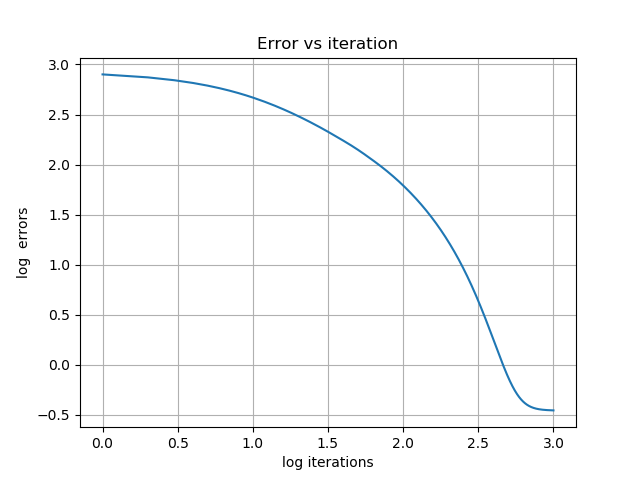
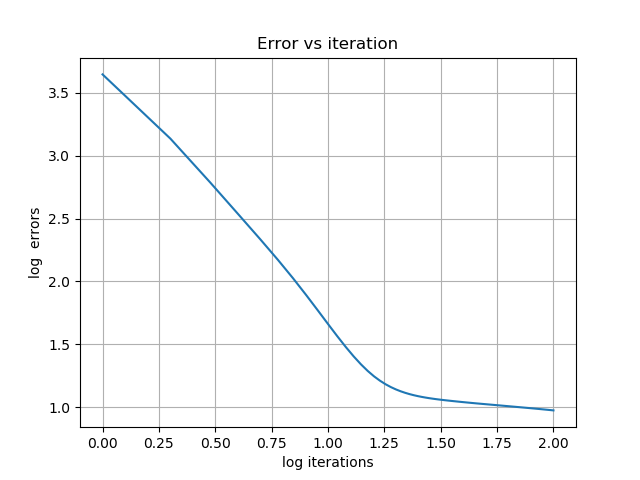
qwerty

diff --git a/torch_nn.py b/torch_nn.py
@@ -4,6 +4,9 @@ import matplotlib.pyplot as plt
 import numpy
 import csv
 import math
+import time
+
+start = time.time()
 
 def getdata():
     rates = []
@@ -26,8 +29,6 @@ def getdata():
         rates = rates / rmax
     return ntenors, nlines, numpy.array(rates)
 
-ntenors, nlines, rates =  getdata()
-
 def make_xy(ntenors,  N, rates,sample_size,n_forcast):
     n_samples =   N - sample_size - n_forcast + 1
     x_in =  numpy.empty([n_samples,sample_size,ntenors])
@@ -38,104 +39,109 @@ def make_xy(ntenors,  N, rates,sample_size,n_forcast):
         y_out[n,:] = rates[n+sample_size+n_forcast-1, :]
     return n_samples, x_in, y_out
 
-N, sample_size, n_forcast = 21, 3, 1
+def ex1():
+    ntenors, nlines, rates = getdata()
+# PARAMETERS
 # N is batch size;
 # D_in is input dimension;
 # H is hidden dimension;
 # D_out is output dimension.
-D_in, H, D_out = 7, 20, 7
-learning_rate = 5e-5
-M = 1000    # number of iterations
-chart_type = "loglog" # "logy"   "logx"  "loglog" ""
+    N, sample_size, n_forcast = 501, 24, 1       #  21, 2, 1
+    D_in, H, D_out = 7, 20, 7                   #  7, 20, 7
+    learning_rate = 1e-4                        #   5e-5
+    M =  100    # number of iterations          #  1000
+    chart_type = "loglog"                       # "logy"   "logx"  "loglog" ""
+#
+    n_samples, x_in, y_out =  make_xy(ntenors, N, rates,sample_size,n_forcast)
+    # x_in  is numpy array: [n_samples,sample_size,ntenors];
+    # y_out is numpy array: [n_samples,ntenors];
+    xn = torch.from_numpy(x_in )        # convertion from numpy to pytorch tensor
+    yn = torch.from_numpy(y_out)        # convertion from numpy to pytorch tensor
+    dtype = torch.double
+    device = torch.device("cpu")
 
-n_samples, x_in, y_out =  make_xy(ntenors, N, rates,sample_size,n_forcast)
-# x_in  is numpy array: [n_samples,sample_size,ntenors]; 
-# y_out is numpy array: [n_samples,ntenors]; 
-xn = torch.from_numpy(x_in )        # convertion from numpy to pytorch tensor 
-yn = torch.from_numpy(y_out)        # convertion from numpy to pytorch tensor
-dtype = torch.double
-device = torch.device("cpu")
+    # Randomly initialize weights
+    w1 = torch.randn(D_in, H, device=device, dtype=dtype)
+    w2 = torch.randn(H, D_out, device=device, dtype=dtype)
+        # w1 = torch.empty(D_in, H, device=device, dtype=dtype).fill_(1)
+        # w2 = torch.empty(H, D_out, device=device, dtype=dtype).fill_(1)
+    x = torch.empty(sample_size,ntenors, device=device, dtype=dtype)
+    y = torch.empty(ntenors, device=device, dtype=dtype)
+    # x is input data for n-th sample
+    # y is output data for n-th sample
 
-# Randomly initialize weights
-w1 = torch.randn(D_in, H, device=device, dtype=dtype)
-w2 = torch.randn(H, D_out, device=device, dtype=dtype)
-                    # w1 = torch.empty(D_in, H, device=device, dtype=dtype).fill_(1)
-                    # w2 = torch.empty(H, D_out, device=device, dtype=dtype).fill_(1)
-x = torch.empty(sample_size,ntenors, device=device, dtype=dtype)
-y = torch.empty(ntenors, device=device, dtype=dtype)
-# x is input data for n-th sample
-# y is output data for n-th sample
+    errors  = []
+    iteration = []  # iteration arg for plotting
+    u=1 # iteration counter
 
-errors  = []
-iteration = []  # iteration arg for plotting
-u=1 # iteration counter
-
-# iteratiion loop
-for t in range(M):
+    # iteratiion loop
+    for t in range(M):
     # Forward pass: compute predicted y
-    loss =  0       # error averaging over all samples
-    grad_w1 =  0    # gradient w1 averaging over all samples
-    grad_w2 =  0    # gradient w2 averaging over all samples
-    for k in range(n_samples):
-        x[:,:]= xn[k,:,:]       # sample input extraction from batch
-        y[:]= yn[k,:]           # sample output extraction from batch
-        h = x.mm(w1)            # hidden layer input
-        h_relu = h.clamp(min=0) # hidden layer output
-        y_pred = h_relu.mm(w2)  # output layer input
+        loss =  0       # error averaging over all samples
+        grad_w1 =  0    # gradient w1 averaging over all samples
+        grad_w2 =  0    # gradient w2 averaging over all samples
+        for k in range(n_samples):
+            x[:,:]= xn[k,:,:]       # sample input extraction from batch
+            y[:]= yn[k,:]           # sample output extraction from batch
+            h = x.mm(w1)            # hidden layer input
+            h_relu = h.clamp(min=0) # hidden layer output
+            y_pred = h_relu.mm(w2)  # output layer input
 
-        # Accumulate loss with averaging
-        loss += (y_pred - y).pow(2).sum().item()/n_samples
+            # Accumulate loss with averaging
+            loss += (y_pred - y).pow(2).sum().item()/n_samples
 
-        # Backprop to compute gradients of w1 and w2 with respect to loss
-        # with averaging over all samples
-        grad_y_pred = 2.0 * (y_pred - y)
-        grad_w2 += h_relu.t().mm(grad_y_pred)
-        grad_h_relu = grad_y_pred.mm(w2.t())
-        grad_h = grad_h_relu.clone()
-        grad_h[h < 0] = 0
-        grad_w1 += x.t().mm(grad_h)
-        # end of loop over samples
+            # Backprop to compute gradients of w1 and w2 with respect to loss
+            # with averaging over all samples
+            grad_y_pred = 2.0 * (y_pred - y)
+            grad_w2 += h_relu.t().mm(grad_y_pred)
+            grad_h_relu = grad_y_pred.mm(w2.t())
+            grad_h = grad_h_relu.clone()
+            grad_h[h < 0] = 0
+            grad_w1 += x.t().mm(grad_h)
+            # end of loop over samples
 
-    # Updating weights using gradient descent
-    w1 -= learning_rate * grad_w1 / n_samples
-    w2 -= learning_rate * grad_w2 / n_samples
-    # collecting values for illustration chart
-    if chart_type == "loglog":
-        iteration.append(math.log10(u))
-        errors.append(math.log10(loss))
-        labx = "log iterations"
-        laby = "log  errors"
-    if chart_type == "logy":
+        # Updating weights using gradient descent
+        w1 -= learning_rate * grad_w1 / n_samples
+        w2 -= learning_rate * grad_w2 / n_samples
+        # collecting values for illustration chart
+        if chart_type == "loglog":
+            iteration.append(math.log10(u))
+            errors.append(math.log10(loss))
+            labx = "log iterations"
+            laby = "log  errors"
+        if chart_type == "logy":
             iteration.append(u)
             errors.append(math.log10(loss))
             labx = "iterations"
             laby = "log  errors"
-    if chart_type == "":
+        if chart_type == "":
             iteration.append(u)
             errors.append(loss)
             labx = "iterations"
             laby = "errors"
-    if chart_type == "logx":
-        iteration.append(math.log10(u))
-        errors.append(loss)
-        labx="log iteration"
-        laby ="errors"
-    if t == 0:
-        print("Start error = ", loss)
-    u=u+1
-    # end of the iteration loop
+        if chart_type == "logx":
+            iteration.append(math.log10(u))
+            errors.append(loss)
+            labx="log iteration"
+            laby ="errors"
+        if t == 0:
+            print("Start error = ", loss)
+        u=u+1
+        # end of the iteration loop
+    span = time.time() - start
+    span = int( span * 1000)*1.0/1000.
+    print("Timing: " ,span," seconds")
+    print("Final error = ",loss)
+    numpy.savetxt("errors.csv", numpy.asarray(errors), delimiter=",")
+    plt.plot(iteration,errors,linestyle="-",marker="")
+    plt.title("Error vs iteration")
+    plt.xlabel(labx)
+    plt.ylabel(laby)
+    plt.grid(which="both")
+    plt.savefig('errors.png')
+    plt.show()
 
-print("Final error = ",loss)
-numpy.savetxt("errors.csv", numpy.asarray(errors), delimiter=",")
-plt.plot(iteration,errors,linestyle="-",marker="")
-plt.title("Error vs iteration")
-plt.xlabel(labx)
-plt.ylabel(laby)
-plt.grid(which="both")
-plt.savefig('errors.png')
-plt.show()
-
-
+ex1()
 # initial example
 """
 PyTorch: Tensors

diff --git a/Example1.py b/Example1.py
@@ -1,0 +1,29 @@
+import numpy as np
+# N is batch size; D_in is input dimension;
+# H is hidden dimension; D_out is output dimension.
+N, D_in, H, D_out = 64, 1000, 100, 10
+# Create random input and output data
+x = np.random.randn(N, D_in)
+y = np.random.randn(N, D_out)
+# Randomly initialize weights
+w1 = np.random.randn(D_in, H)
+w2 = np.random.randn(H, D_out)
+learning_rate = 1e-6
+for t in range(500):    # Forward pass: compute predicted y
+    h  = x.dot(w1)
+    h_relu = np.maximum(h, 0)
+    y_pred = h_relu.dot(w2)
+# Compute and print loss
+    loss = np.square(y_pred - y).sum()
+    print(t, loss)
+# Backprop to compute gradients of w1 and w2 with respect to loss
+    grad_y_pred = 2.0 * (y_pred - y)
+    grad_w2 = h_relu.T.dot(grad_y_pred)
+    grad_h_relu = grad_y_pred.dot(w2.T)
+    grad_h = grad_h_relu.copy()
+    grad_h[h < 0] = 0
+    grad_w1 = x.T.dot(grad_h)
+# Update weights
+    w1 -= learning_rate * grad_w1
+    w2 -= learning_rate * grad_w2
+    h = x.dot(w1)
